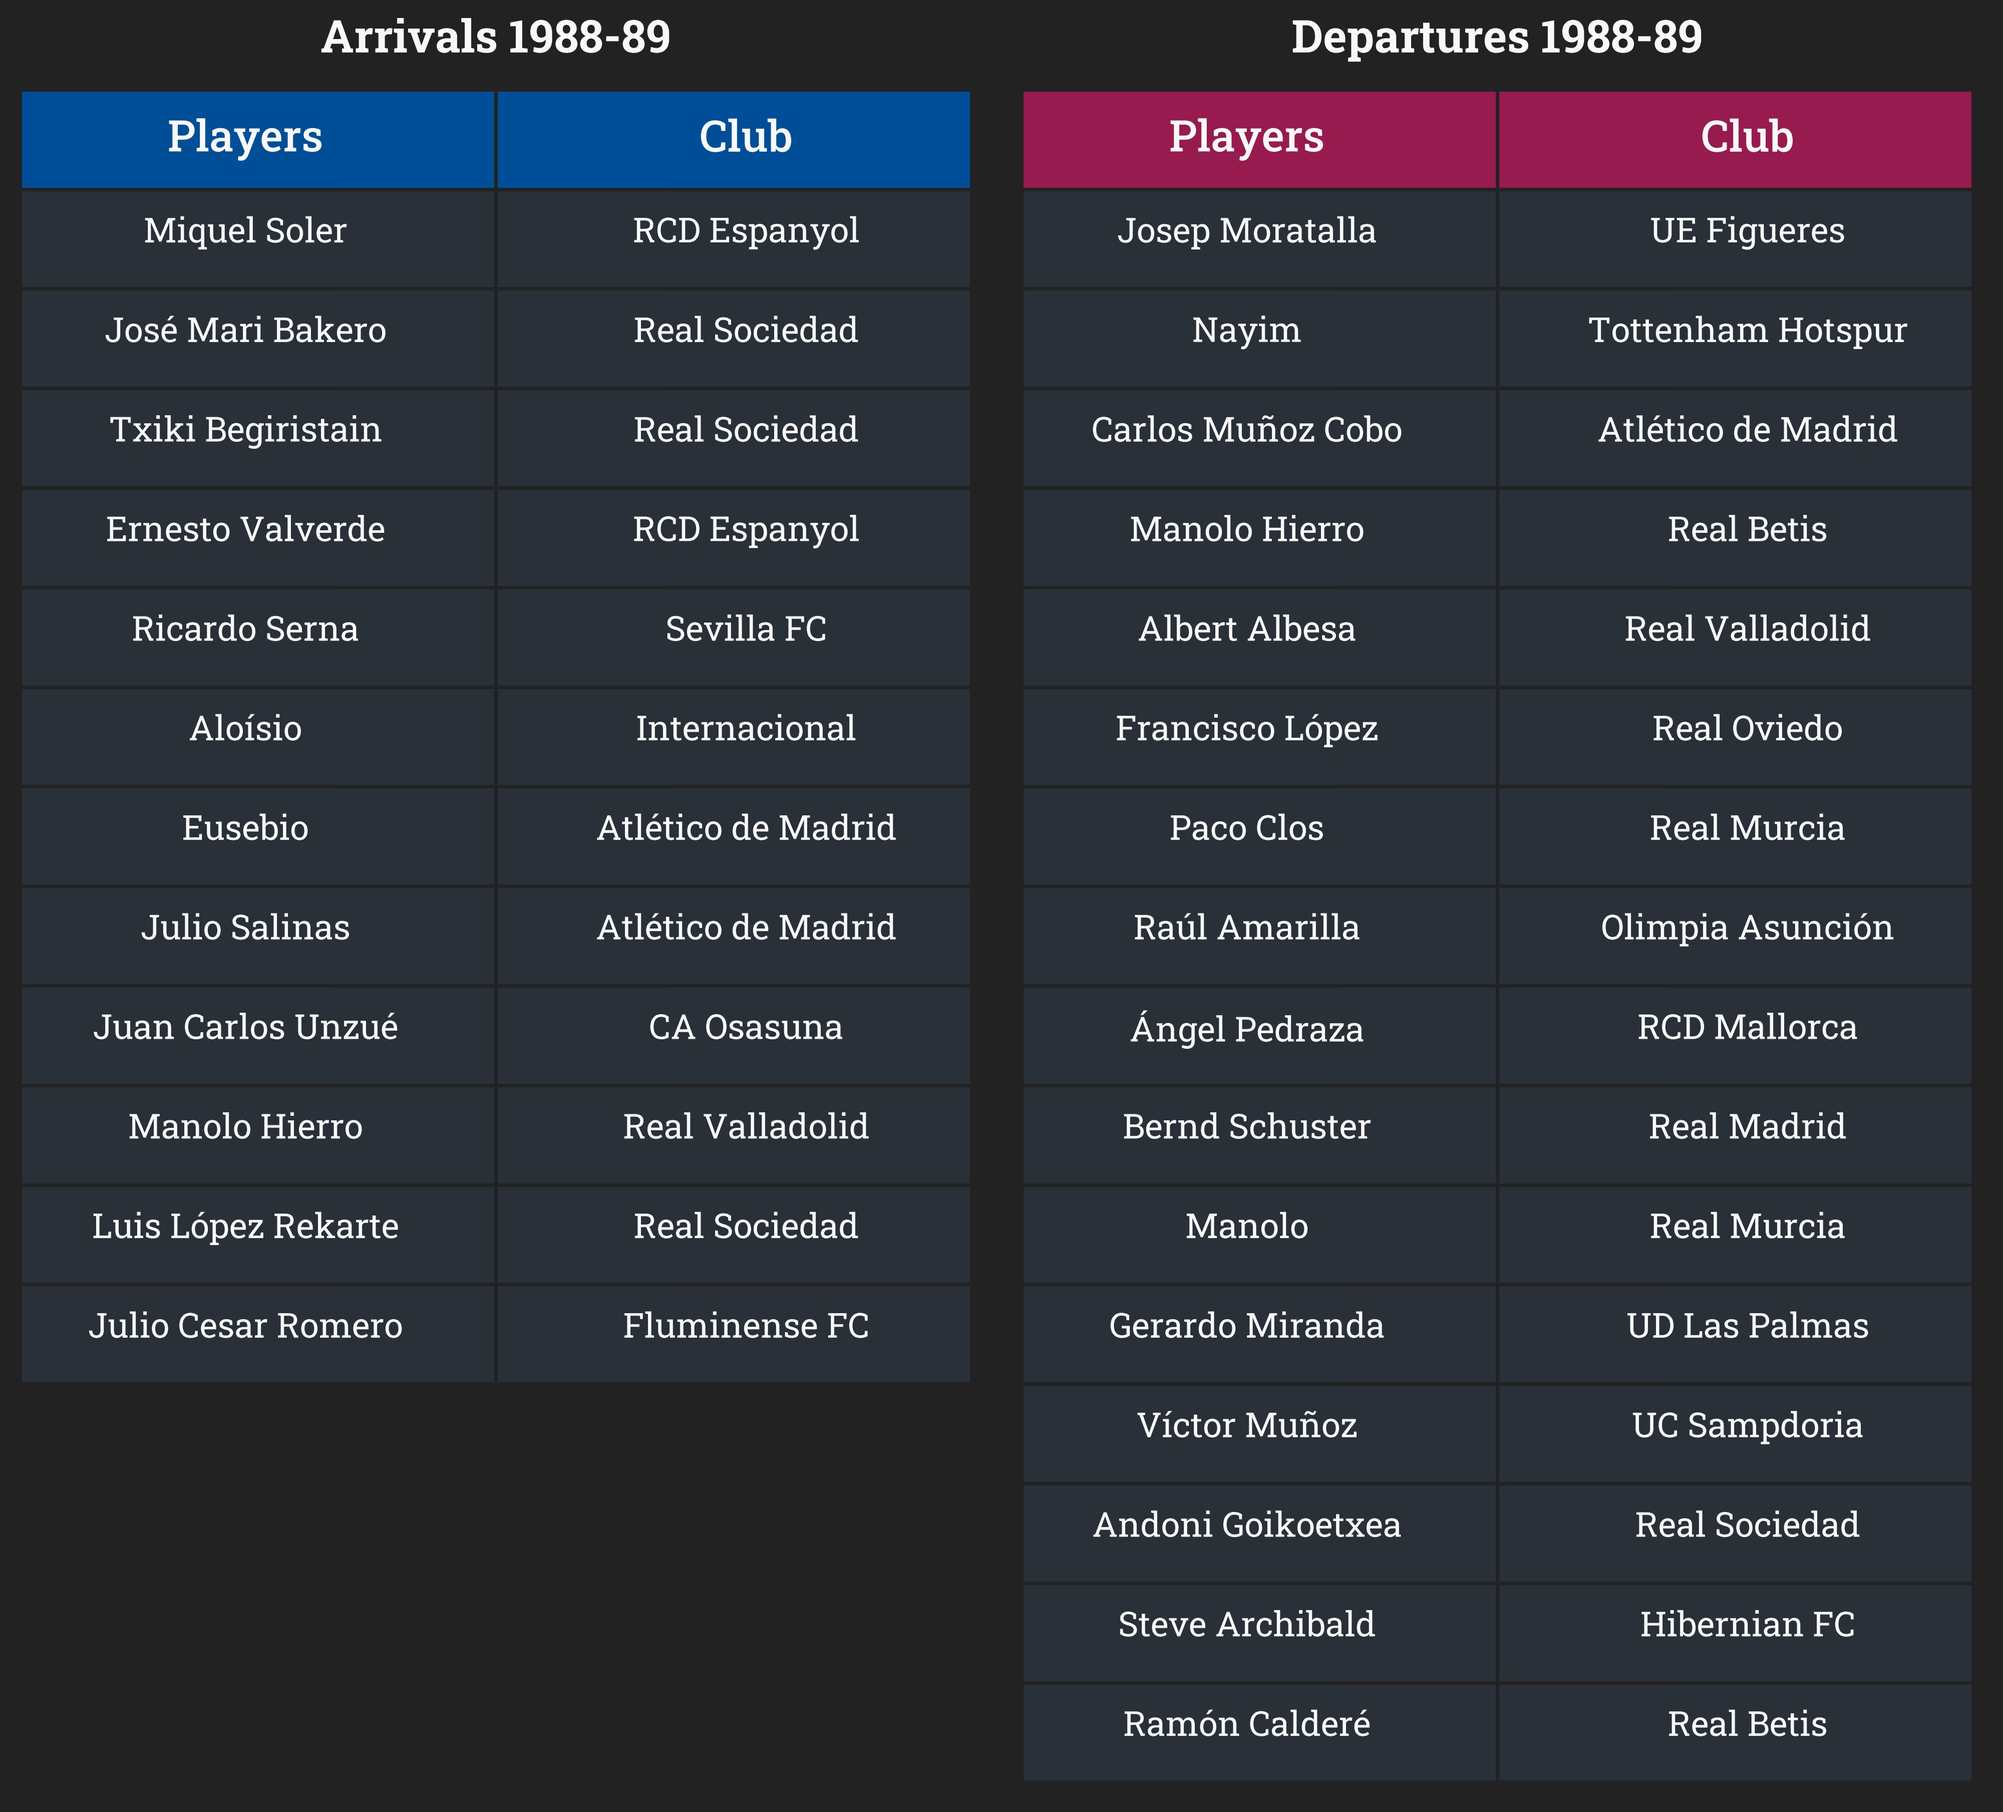
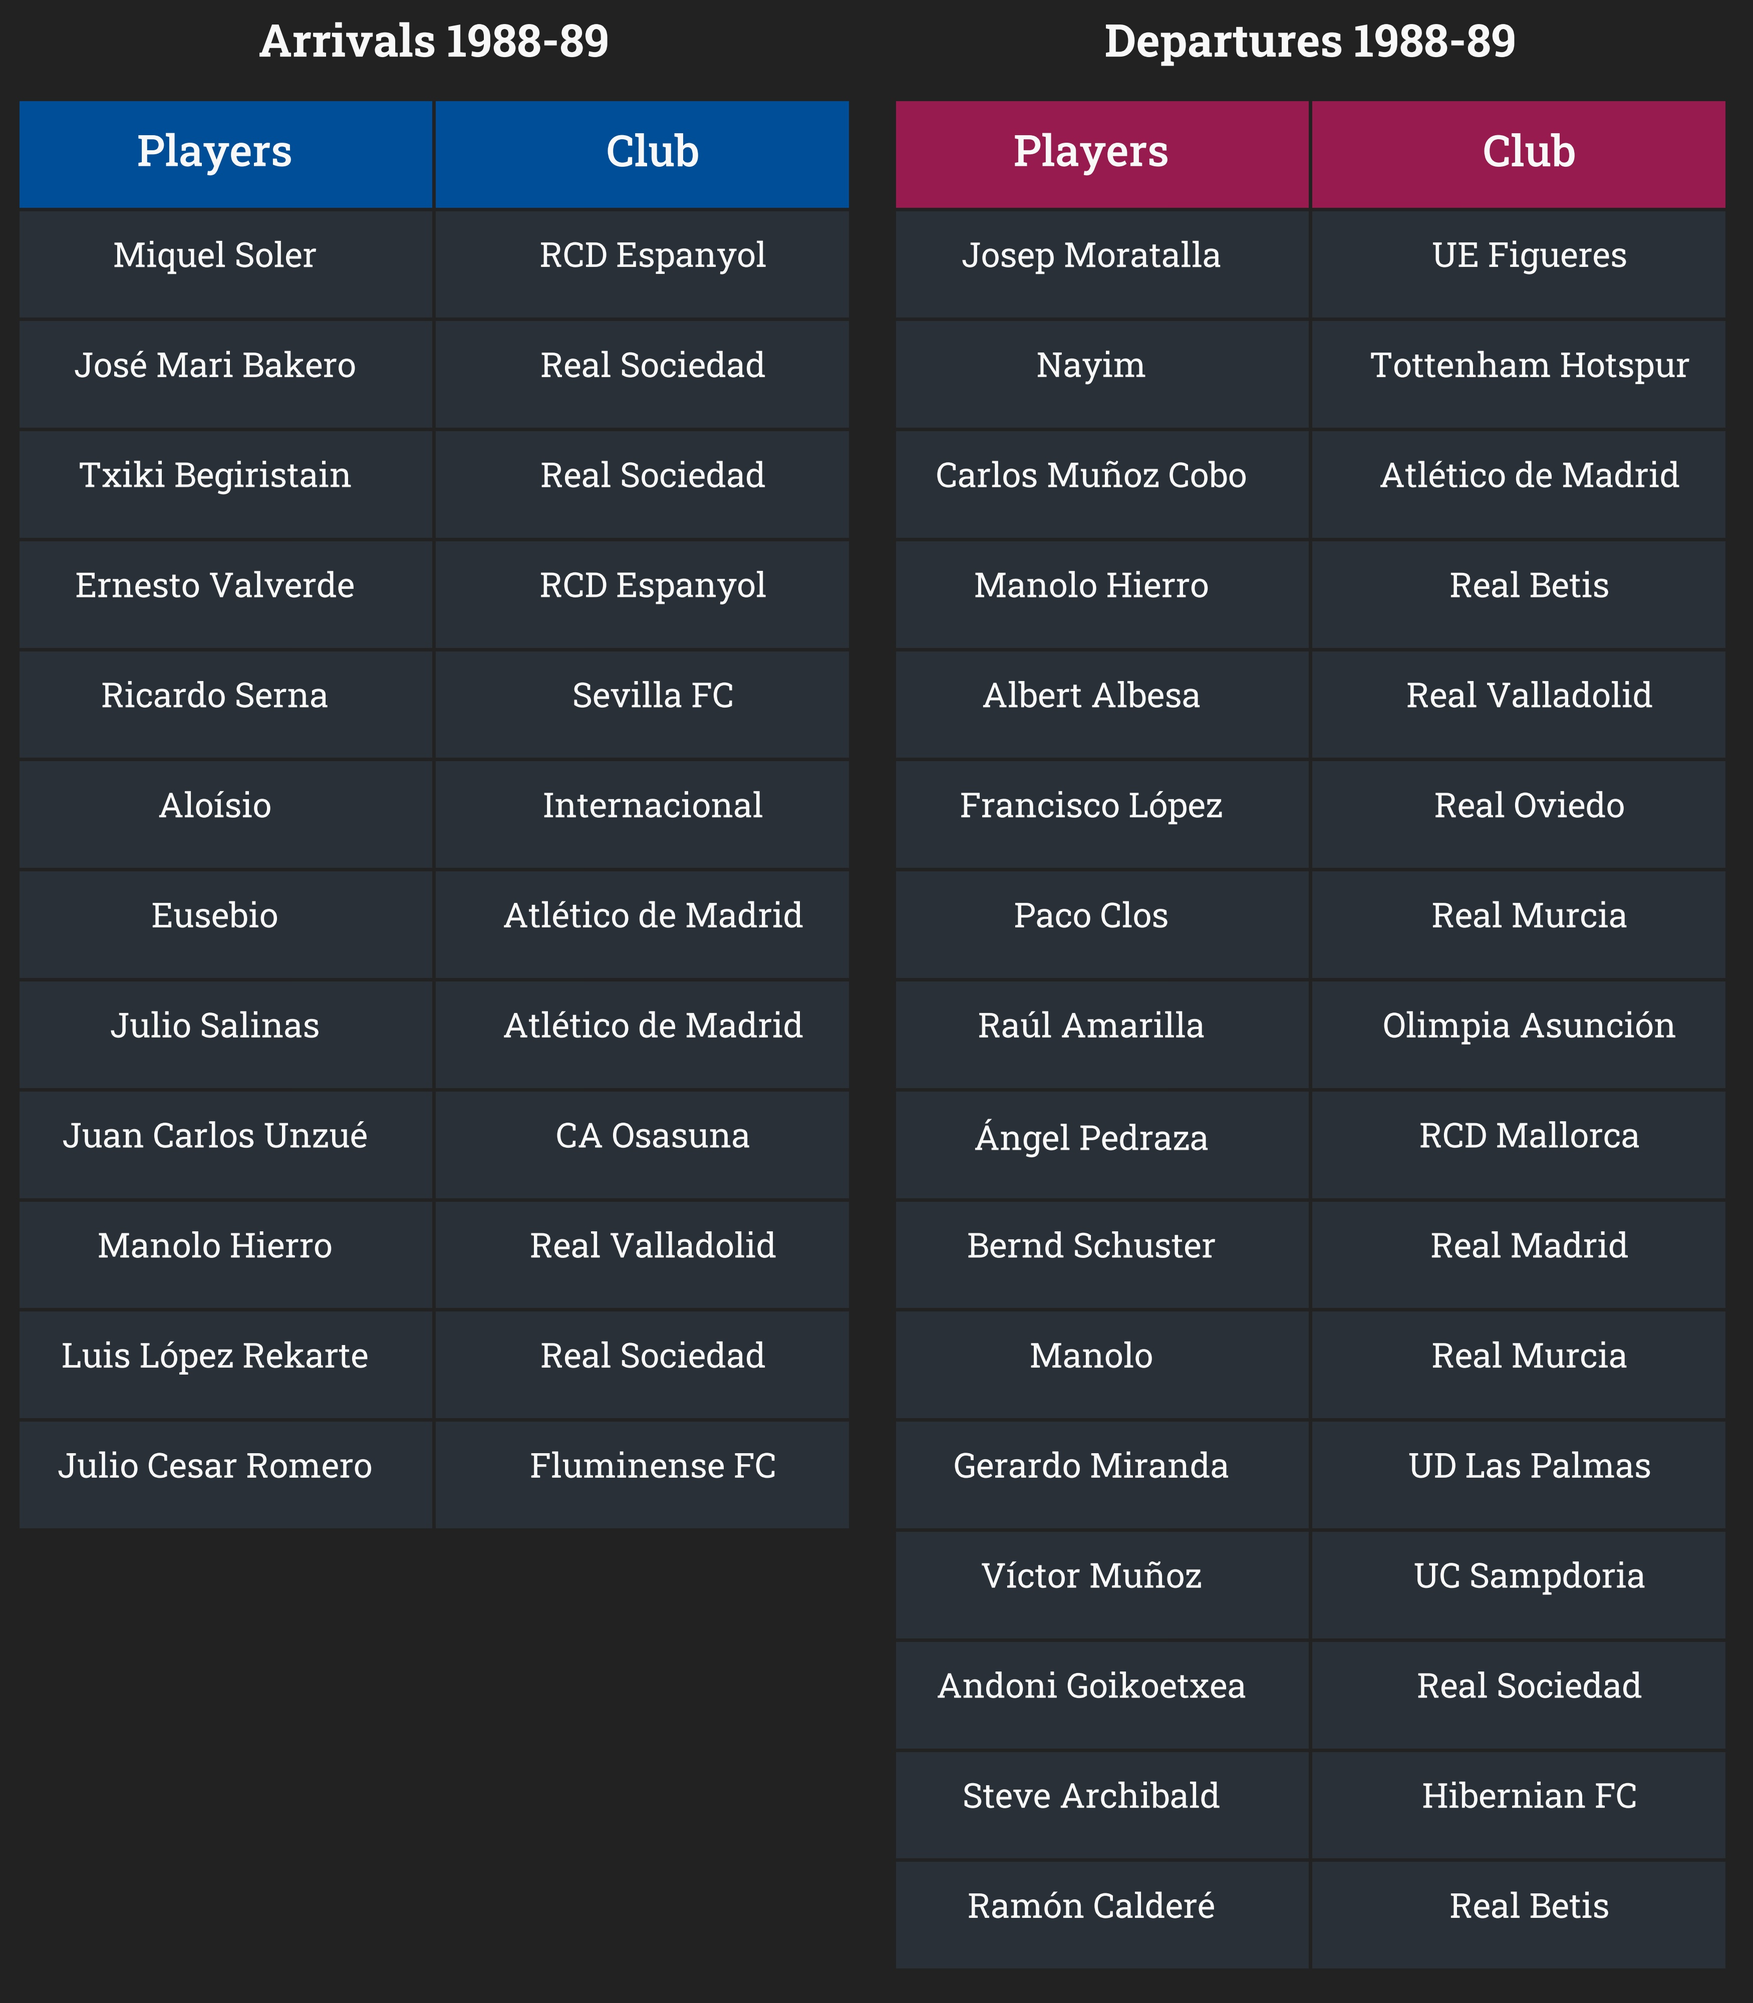
deploy: 2324e9991e266953176296e8f8e3e968366897d2

diff --git a/revisiting-the-past/2021/06/07/cruyff.html b/revisiting-the-past/2021/06/07/cruyff.html
@@ -230,7 +230,7 @@ window.onload = wrap_img;
 <div class="text_cell_render border-box-sizing rendered_html">
 <p><figure>
   
-    <img class="docimage" src="/Sloth-Stack/images/copied_from_nb/../images/01_johan_cruyff/table.jpg" alt="transfers" style="max-width: 860px" />
+    <img class="docimage" src="/Sloth-Stack/images/copied_from_nb/../images/01_johan_cruyff/table.jpg" alt="transfers" />
     
     
 </figure>
